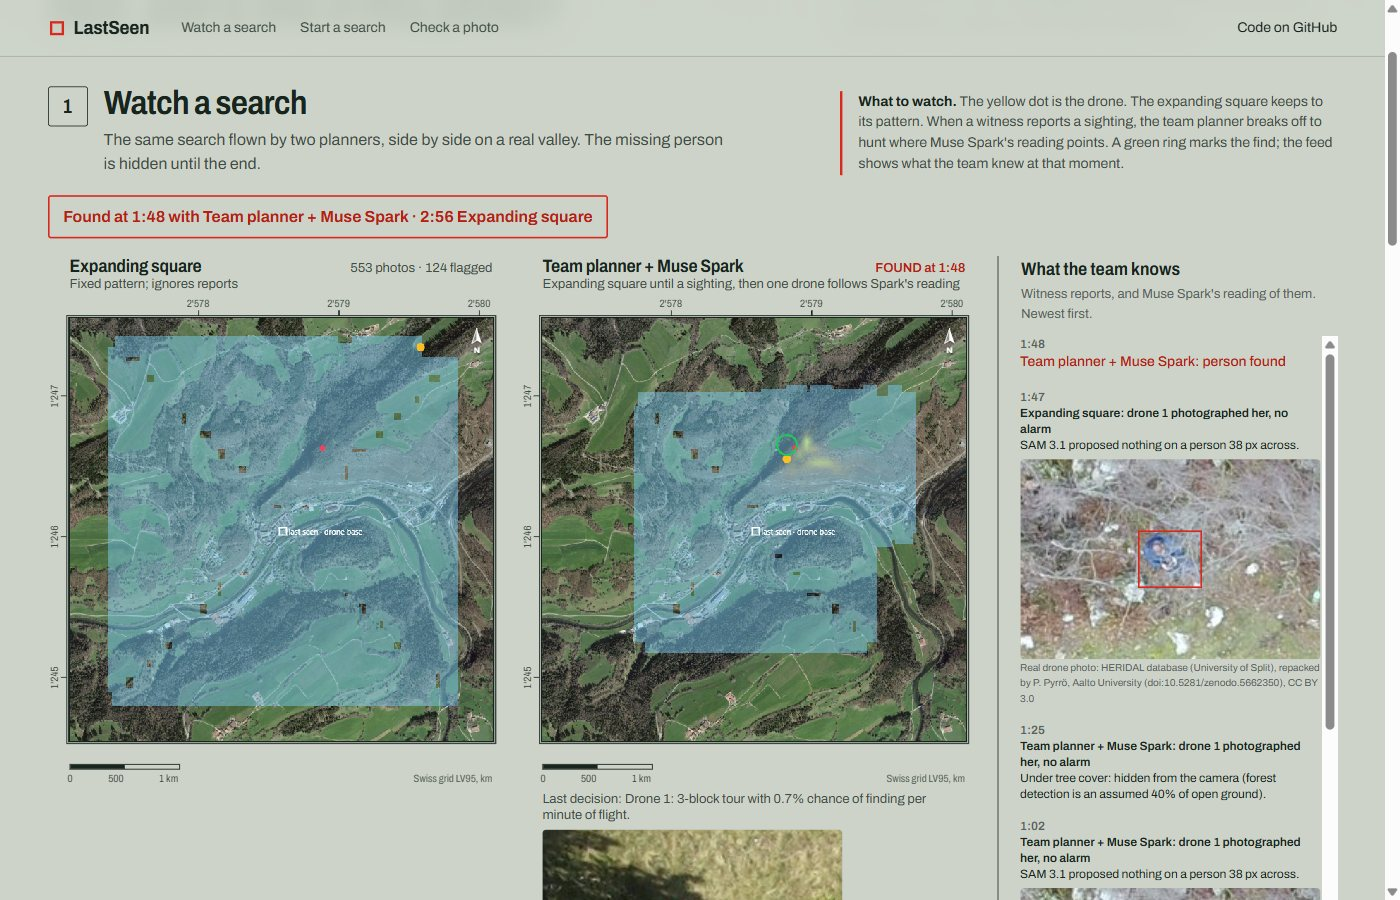
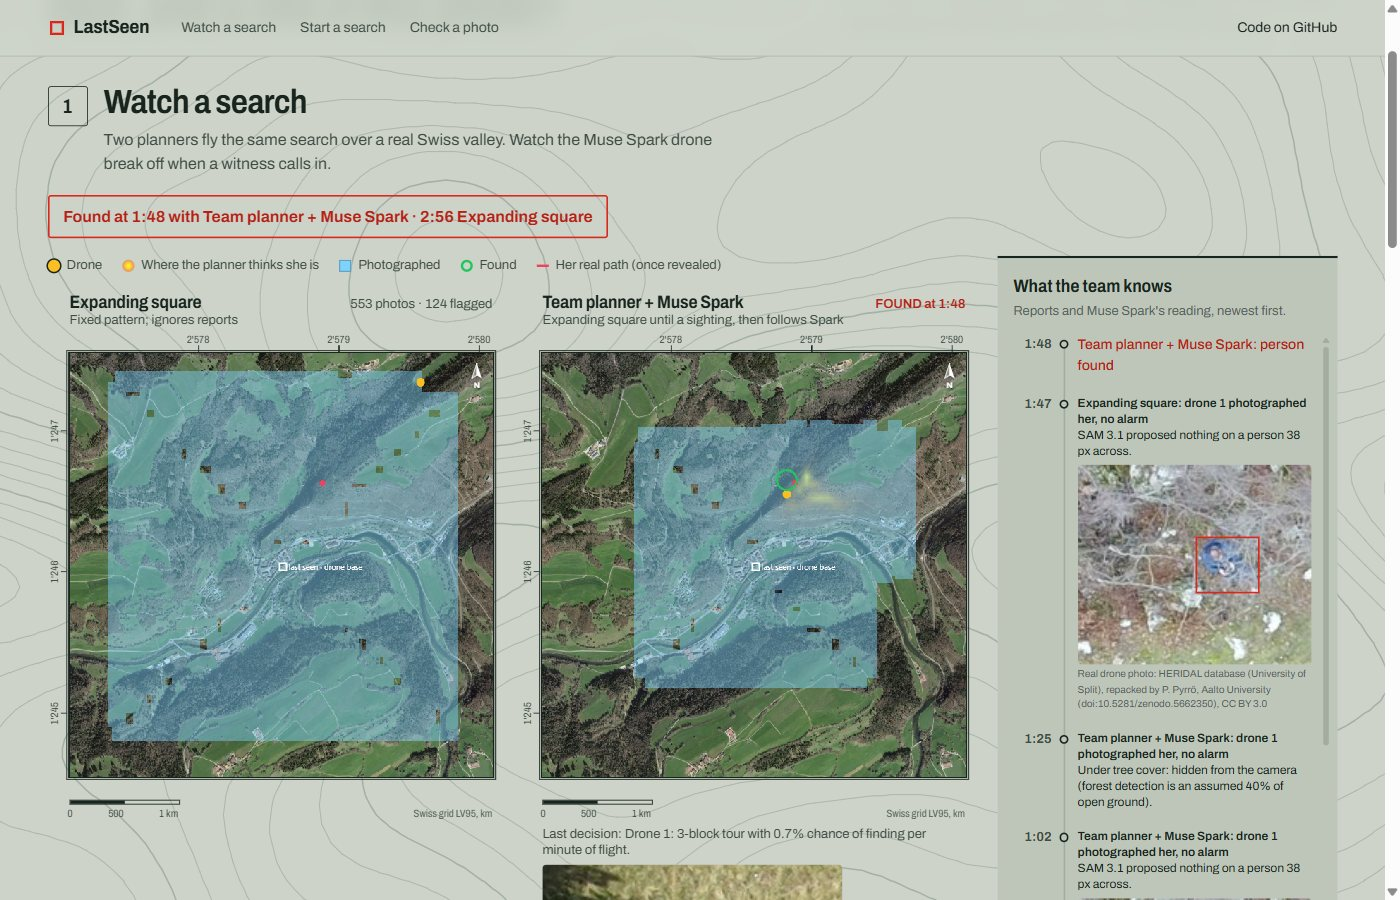
Page: line up the maps, feed as a timeline, map key, stronger contours, shorter copy

diff --git a/static/style.css b/static/style.css
@@ -55,11 +55,11 @@
 /* ---------- hero ---------- */
 
 .hero { position: relative; padding: 36px 0 20px; overflow: hidden; }
-.hero::before {
-  content: ""; position: absolute; inset: 0; pointer-events: none;
-  background: url("contours.svg") center / cover no-repeat;
-  opacity: 0.22;
-  mask-image: linear-gradient(180deg, #000 0%, #000 55%, transparent 100%);
+.sv::before {
+  content: ""; position: fixed; inset: 0; z-index: -1; pointer-events: none;
+  background: var(--contour);
+  mask: url("contours.svg") center / cover no-repeat;
+  opacity: 0.45;
 }
 .hero-grid { position: relative; display: grid; grid-template-columns: minmax(0, 3fr) minmax(0, 2fr); gap: 56px; align-items: end; }
 .hero h1 {
@@ -113,9 +113,16 @@
 .btn-quiet { background: var(--surface); border: 1px solid var(--rule); color: var(--ink); }
 .btn-quiet:hover { border-color: var(--ink-3); }
 
-.watch { flex: 1 1 420px; max-width: 62ch; font-size: 14px; color: var(--ink-2); padding-left: 16px; border-left: 3px solid var(--red); }
 .other-races { margin-top: 14px; }
-.watch strong { color: var(--ink); }
+
+.map-key { display: flex; flex-wrap: wrap; gap: 6px 20px; margin: 0 0 16px; font-size: 13px; color: var(--ink-2); }
+.map-key li { display: inline-flex; align-items: center; gap: 7px; }
+.map-key i { flex: none; width: 12px; height: 12px; }
+.k-drone { border-radius: 50%; background: #fbbf24; box-shadow: 0 0 0 1.5px var(--ink); }
+.k-heat { border-radius: 50%; background: radial-gradient(circle, rgb(255, 240, 30) 15%, rgba(255, 70, 30, .55) 75%); }
+.k-seen { background: rgb(125, 211, 252); box-shadow: inset 0 0 0 1px rgba(21, 35, 45, .35); }
+.k-found { border-radius: 50%; border: 2.5px solid #22c55e; }
+.k-truth { height: 0 !important; border-top: 2.5px solid #f43f5e; }
 
 .result-line {
   display: inline-block; margin-bottom: 18px; padding: 8px 14px;
@@ -130,9 +137,11 @@
 /* ---------- race ---------- */
 
 .race-grid { display: grid; grid-template-columns: minmax(0, 1fr) 340px; gap: 32px; }
-.lanes { display: grid; grid-template-columns: repeat(auto-fit, minmax(min(280px, 100%), 1fr)); gap: 28px; }
+.lanes { display: grid; grid-template-columns: repeat(auto-fit, minmax(min(280px, 100%), 1fr)); gap: 0 28px; }
 
-.sv #lanes article { background: none; border: 0; padding: 0; border-radius: 0; }
+/* each lane spans five shared rows (title, subtitle, map, note, photo), so the maps line up whatever the titles wrap to */
+.sv #lanes article { display: grid; grid-template-rows: subgrid; grid-row: span 5; background: none; border: 0; padding: 0; border-radius: 0; }
+.sv #lanes [data-photo] { padding-bottom: 24px; }
 .sv #lanes article > div:first-child { padding: 0 0 0 22px; align-items: baseline; }
 .sv #lanes h3 { font-size: 18px; font-weight: 650; font-stretch: 86%; letter-spacing: -0.01em; }
 .sv #lanes article > p.mb-2 { padding: 0 0 0 22px; margin-bottom: 4px; font-size: 13px; }
@@ -175,14 +184,17 @@
 .layers label { cursor: pointer; }
 
 /* feed: its height follows the maps, then scrolls */
-.feed { contain: size; display: flex; flex-direction: column; border-left: 1.5px solid var(--ink); padding-left: 8px; }
-.feed h3, .feed-sub { padding-left: 15px; }
+.feed { contain: size; display: flex; flex-direction: column; background: var(--well); border-top: 3px solid var(--ink); border-radius: 0 0 var(--r-frame) var(--r-frame); padding: 14px 6px 6px 16px; }
 .feed h3 { font-size: 18px; font-weight: 650; font-stretch: 86%; }
-.feed-sub { font-size: 13px; color: var(--ink-3); margin: 2px 0 12px; }
-.sv #feed { flex: 1; overflow-y: auto; padding-right: 8px; display: grid; gap: 16px; align-content: start; font-size: 14px; }
-.sv #feed > li { border-left: 3px solid transparent; padding-left: 12px; }
-.sv #feed > li > div:first-child { font-size: 12px; color: var(--ink-3); font-weight: 600; }
-.sv #feed > li:has(.text-amber-300) { border-left-color: var(--red); }
+.feed-sub { font-size: 13px; color: var(--ink-3); margin: 2px 0 14px; }
+.sv #feed { flex: 1; overflow-y: auto; overflow-x: hidden; scrollbar-width: thin; scrollbar-color: var(--rule) transparent; padding-right: 10px; display: grid; grid-template-columns: minmax(0, 1fr); align-content: start; font-size: 14px; }
+/* a timeline: time on the left, a rail with a stop per entry, red stops for Muse Spark's readings */
+.sv #feed > li { position: relative; border: 0; padding: 0 0 18px 64px; }
+.sv #feed > li::before { content: ""; position: absolute; left: 50px; top: 6px; bottom: -6px; width: 1.5px; background: var(--rule); }
+.sv #feed > li:last-child::before { display: none; }
+.sv #feed > li::after { content: ""; position: absolute; left: 46px; top: 5px; width: 9px; height: 9px; border-radius: 50%; background: var(--well); border: 2px solid var(--ink); }
+.sv #feed > li:has(.text-amber-300)::after, .sv #feed > li:has(.text-green-400)::after { background: var(--red); border-color: var(--red); }
+.sv #feed > li > div:first-child { position: absolute; left: 0; top: 1px; width: 38px; text-align: right; font-size: 13px; color: var(--ink-2); font-weight: 650; }
 
 .margin-notes { display: grid; grid-template-columns: minmax(0, 1fr) minmax(0, 1.4fr); gap: 32px; margin-top: 36px; padding-top: 16px; border-top: 1px solid var(--rule); }
 .margin-notes h4, .colophon h4 { font-size: 13px; font-weight: 650; margin-bottom: 6px; }
@@ -253,7 +265,7 @@
 @media (max-width: 1100px) {
   .hero-grid, .band-grid { grid-template-columns: 1fr; gap: 20px; }
   .race-grid, .triage-grid { grid-template-columns: minmax(0, 1fr); }
-  .feed { contain: none; max-height: 480px; border-left: 0; border-top: 1.5px solid var(--ink); padding: 16px 0 0; }
+  .feed { contain: none; max-height: 520px; }
   .brief-grid { grid-template-columns: minmax(0, 1fr); gap: 28px; }
 }
 @media (max-width: 640px) {

diff --git a/static/index.html b/static/index.html
@@ -34,7 +34,7 @@
     <section class="hero" aria-labelledby="hero-title">
       <div class="wrap hero-grid">
         <h1 id="hero-title">Where should the drone fly next, and is she in this photo?</h1>
-        <p class="lede">LastSeen is search and rescue for one volunteer with one drone. <strong>Muse Spark</strong> reads what the family and witnesses say into weighted explanations on a real map. <strong>SAM&nbsp;3.1</strong> and Muse Spark check every drone photo for a person a few dozen pixels wide.</p>
+        <p class="lede">Search and rescue for one volunteer with one drone. <strong>Muse Spark</strong> turns what witnesses say into a search map. <strong>SAM&nbsp;3.1</strong> and Muse Spark spot a person a few dozen pixels wide in the drone's photos.</p>
       </div>
     </section>
 
@@ -46,16 +46,22 @@
             <span class="sheet-no" aria-hidden="true">1</span>
             <div>
               <h2 id="race-title">Watch a search</h2>
-              <p class="sheet-sub">The same search flown by two planners, side by side on a real valley. The missing person is hidden until the end.</p>
+              <p class="sheet-sub">Two planners fly the same search over a real Swiss valley. Watch the Muse Spark drone break off when a witness calls in.</p>
             </div>
           </div>
-          <p class="watch"><strong>What to watch.</strong> The yellow dot is the drone. The expanding square keeps to its pattern. When a witness reports a sighting, the team planner breaks off to hunt where Muse Spark's reading points. A green ring marks the find; the feed shows what the team knew at that moment.</p>
         </div>
 
         <p id="result-line" class="hidden result-line" role="status"></p>
 
         <div class="race-grid">
           <div class="race-main">
+            <ul class="map-key" aria-label="Map key">
+              <li><i class="k-drone"></i>Drone</li>
+              <li><i class="k-heat"></i>Where the planner thinks she is</li>
+              <li><i class="k-seen"></i>Photographed</li>
+              <li><i class="k-found"></i>Found</li>
+              <li><i class="k-truth"></i>Her real path (once revealed)</li>
+            </ul>
             <div id="lanes" class="lanes"></div>
 
             <div class="playbar">
@@ -88,7 +94,7 @@
 
           <aside class="feed" aria-labelledby="feed-title">
             <h3 id="feed-title">What the team knows</h3>
-            <p class="feed-sub">Witness reports, and Muse Spark's reading of them. Newest first.</p>
+            <p class="feed-sub">Reports and Muse Spark's reading, newest first.</p>
             <ol id="feed" aria-live="polite"></ol>
           </aside>
         </div>
@@ -110,7 +116,7 @@
       <div class="wrap band-grid">
         <div>
           <h2 id="facts-title">Measured, not assumed</h2>
-          <p class="band-sub">Detection was measured on real drone photos; the search result on a simulator that never shows the planner where she is.</p>
+          <p class="band-sub">Detection on real drone photos. Search times on a simulator the planners can't peek into.</p>
         </div>
         <dl class="facts">
           <div class="fact">
@@ -137,7 +143,7 @@
             <span class="sheet-no" aria-hidden="true">2</span>
             <div>
               <h2 id="brief-title">Start a search here</h2>
-              <p class="sheet-sub">Type or speak what the family and witnesses said. Muse Voice Transcribe writes it down, Muse Spark turns it into explanations of where she might be, using the named places on the map, and the drone gets a first block to fly.</p>
+              <p class="sheet-sub">Type or speak what the family said. Muse Spark turns it into weighted guesses about real places on the map, and the drone gets its first block to fly.</p>
             </div>
           </div>
         </div>
@@ -176,7 +182,7 @@
             <span class="sheet-no" aria-hidden="true">3</span>
             <div>
               <h2 id="triage-title">Is anyone in this photo?</h2>
-              <p class="sheet-sub">SAM 3.1 proposes possible people in each 1000&nbsp;px tile, and Muse Spark checks each proposal on a close-up. A reviewer checks the alarms instead of the whole photo, and can overrule Spark.</p>
+              <p class="sheet-sub">SAM 3.1 marks anything that might be a person; Muse Spark checks each one on a close-up. The reviewer only looks at the alarms.</p>
             </div>
           </div>
           <div class="scenario">

diff --git a/static/replay.js b/static/replay.js
@@ -12,7 +12,7 @@ const PLANNERS = {
   ours: ["Probability map, packed tours", "Lost-person statistics only"],
   "ours+spark": ["Probability map, packed tours + Muse Spark", "Statistics plus Spark's reading of the witness reports"],
   hedge: ["Team planner", "Expanding square; without Spark it never leaves the pattern"],
-  "hedge+spark": ["Team planner + Muse Spark", "Expanding square until a sighting, then one drone follows Spark's reading"],
+  "hedge+spark": ["Team planner + Muse Spark", "Expanding square until a sighting, then follows Spark"],
 };
 const TERRAIN = [
   ["Open", [181, 201, 154]],
@@ -308,10 +308,10 @@ function buildLaneDom() {
     lane.photoEl = el.querySelector("[data-photo]");
   });
   $("imagery").innerHTML = state.run.imagery
-    ? "Every photo that has the missing person in it is decided by a real SAM 3.1 + Muse Spark answer on a real drone photo of a person that size (in forest, canopy also hides her at an assumed rate). Every lane draws its photos of her from the same sequence, so planners are compared on the same luck. Flagged = alarms a reviewer checks instead of every photo."
+    ? "Each photo of her is judged by SAM 3.1 and Muse Spark on a real drone photo of a person her size (under trees, canopy also hides her at an assumed rate). Every planner draws from the same photos, so they share the same luck. Flagged: alarms a reviewer checks."
     : "Detections are sampled from the measured table (no photo pool on this server).";
   if (state.run.place) {
-    $("imagery").innerHTML += ` <br>A real place: ${escapeHtml(state.run.place.title)}. The simulator walks the hidden person over terrain classes and paths read from OpenStreetMap (untick the aerial photo to see them). Aerial imagery © swisstopo · ${escapeHtml(state.run.place.credit)}.`;
+    $("imagery").innerHTML += ` <br>A real place: ${escapeHtml(state.run.place.title)}. She walks over terrain and paths from OpenStreetMap (untick the aerial photo to see them). Aerial imagery © swisstopo · ${escapeHtml(state.run.place.credit)}.`;
   }
   $("legend").innerHTML = [
     ...TERRAIN.map(([name, rgb]) => swatch(`rgb(${rgb})`, name)),
